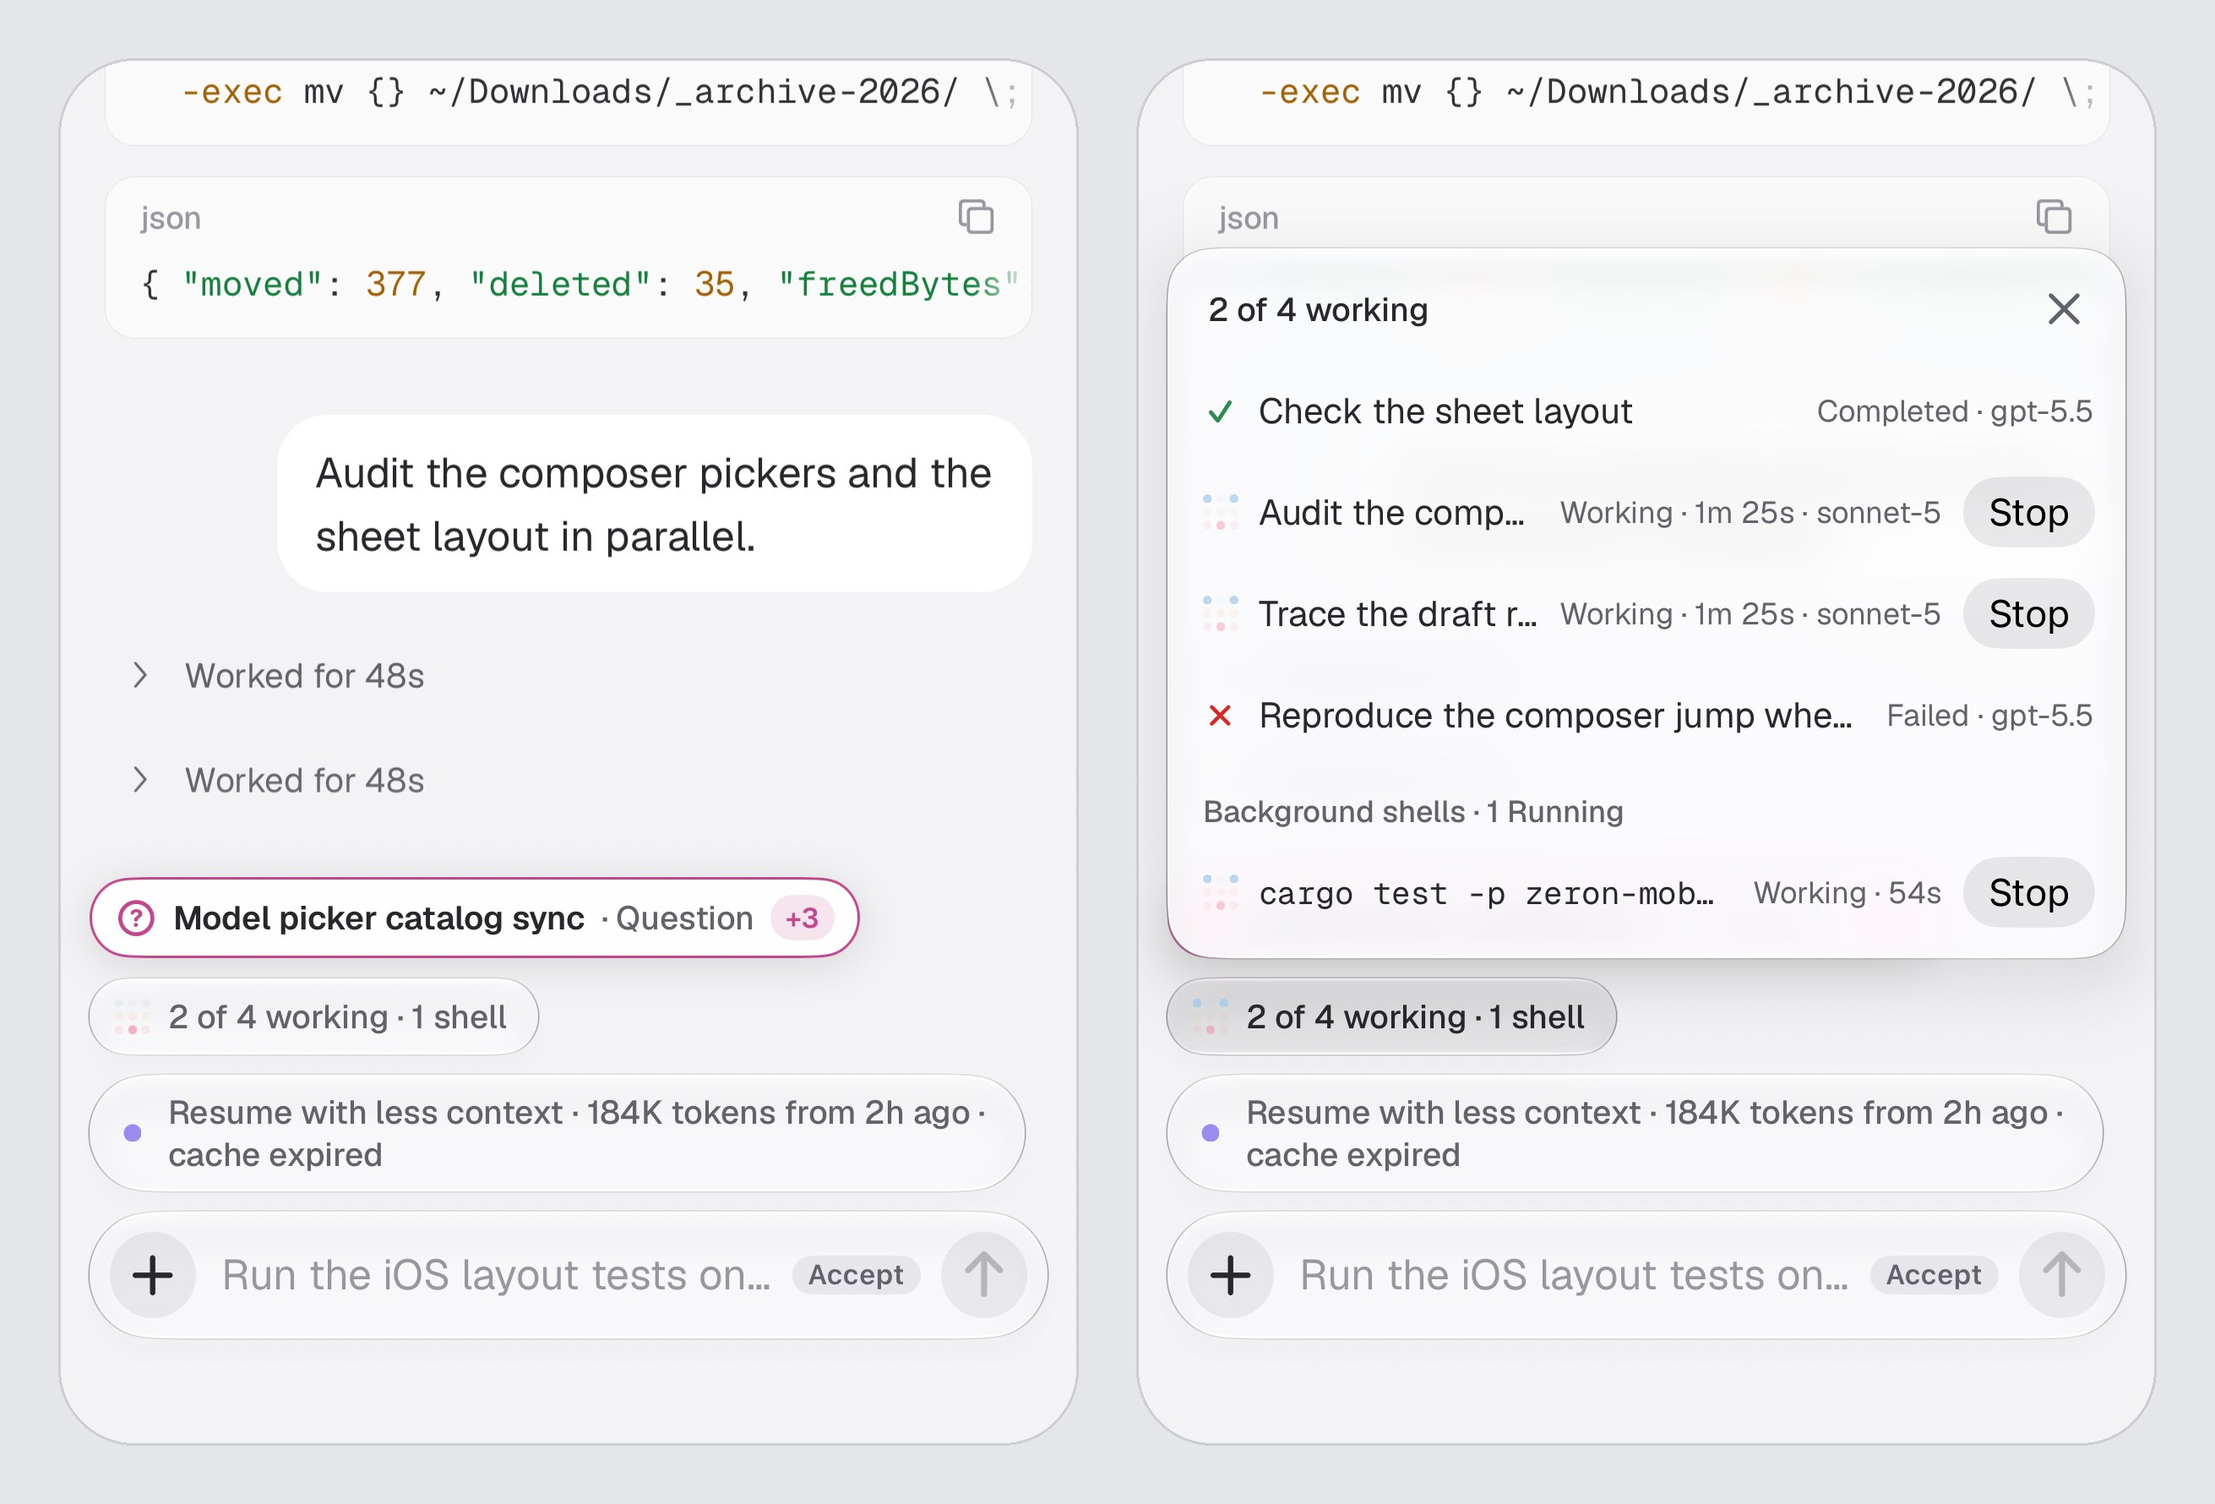
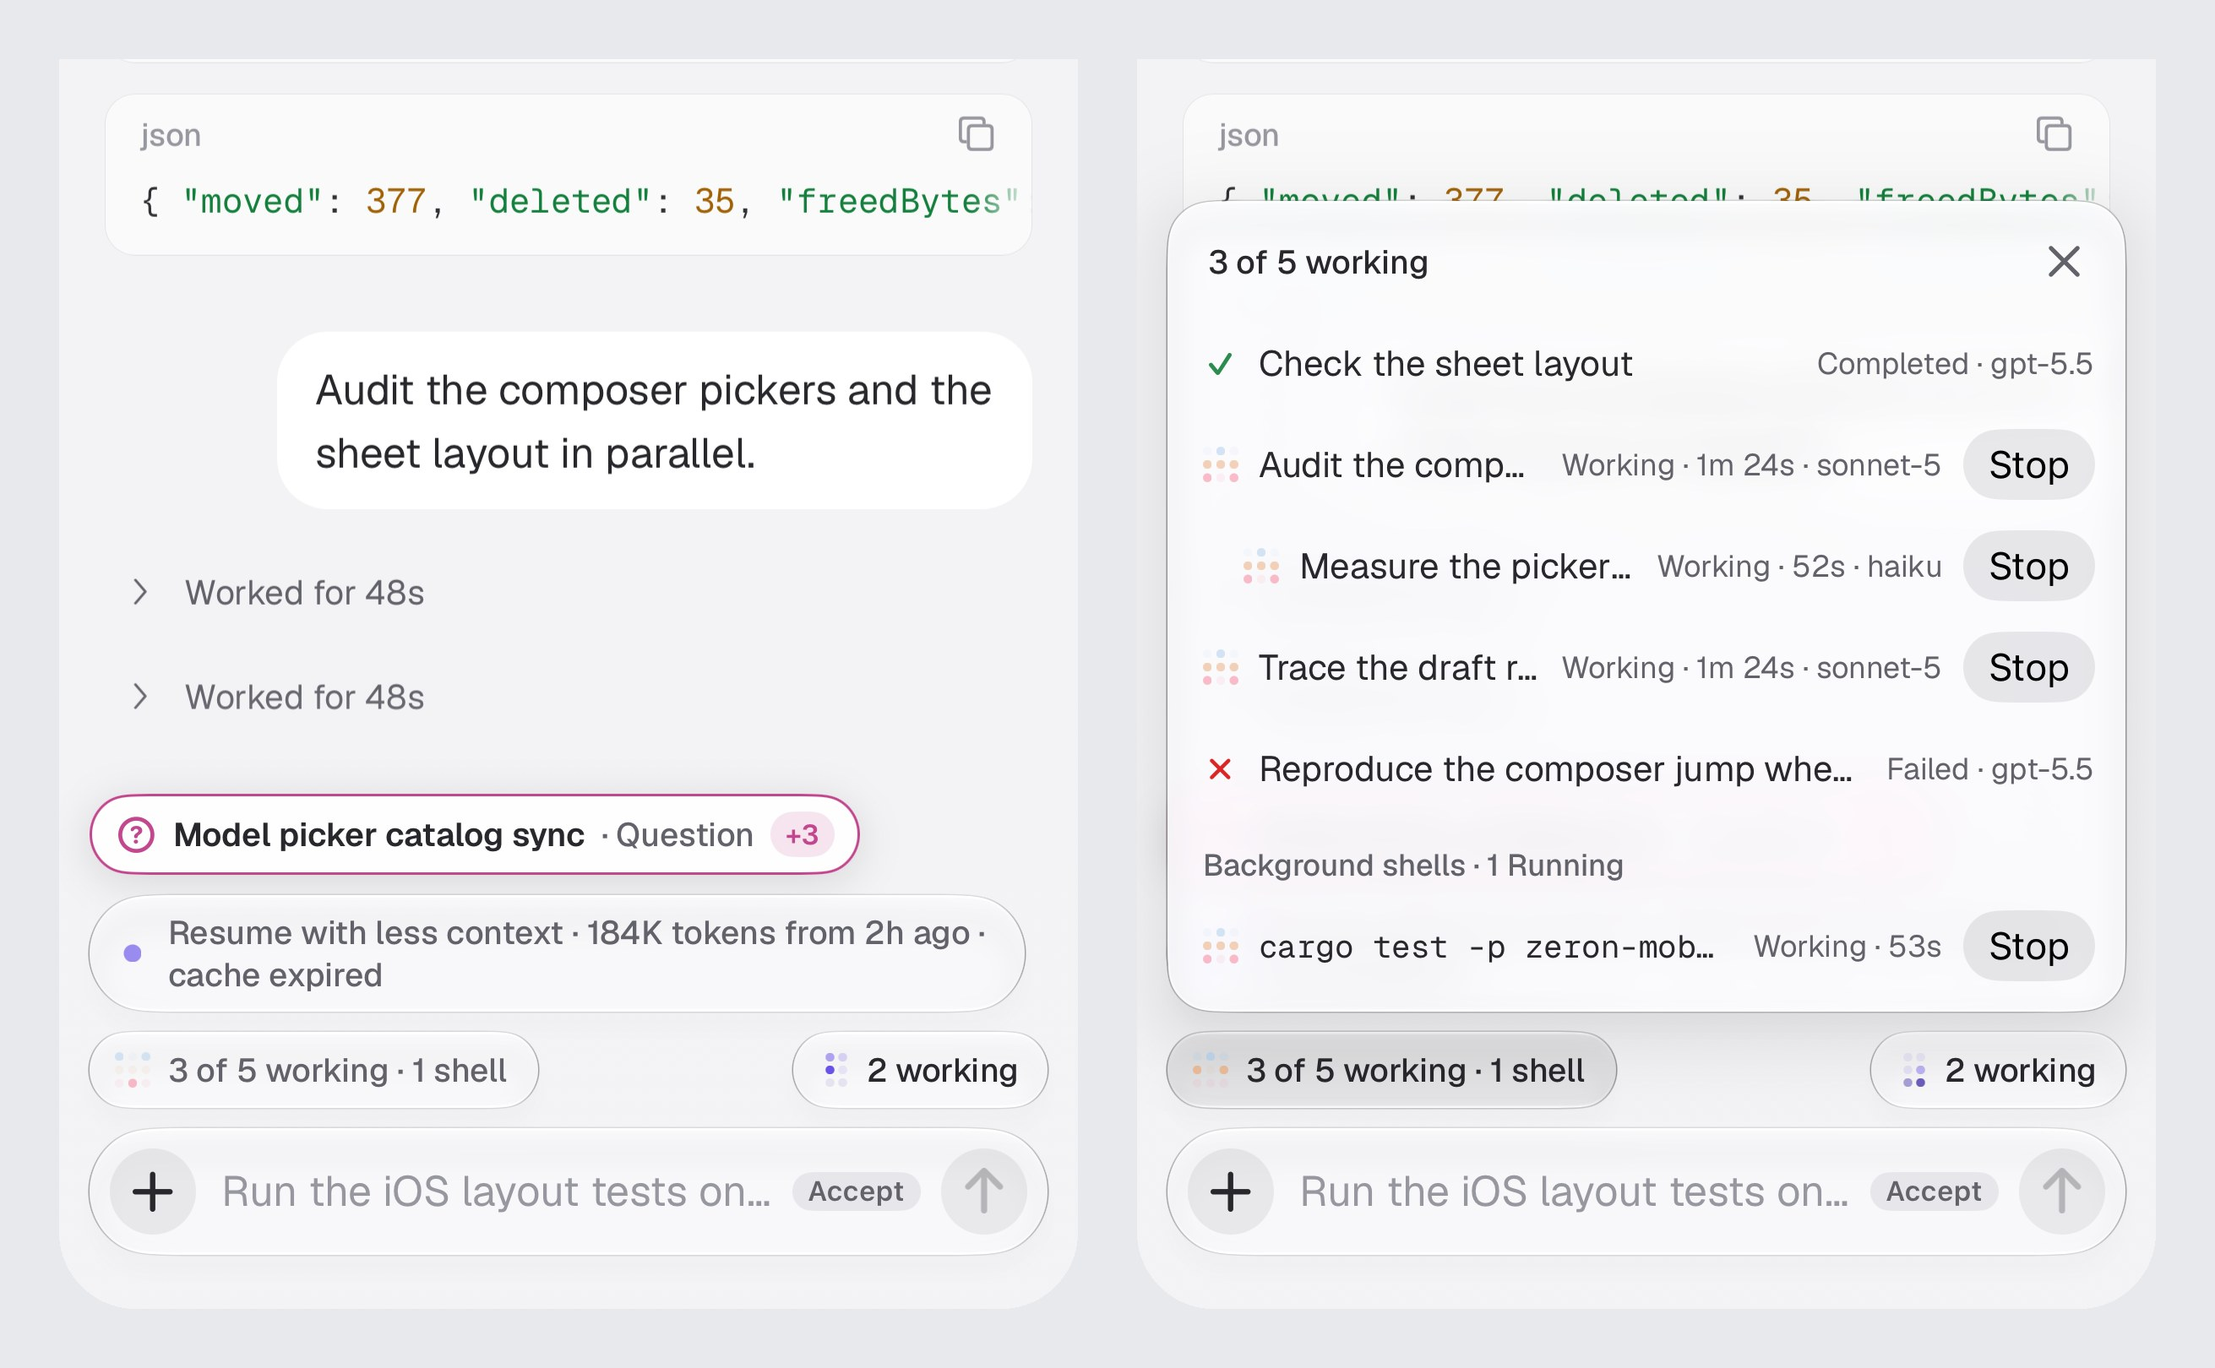
whats new + docs: the 0.2.130 entry (Android parity card with a live phone visual, upstream fx summary, a grouped Improvements and fixes block with a live Settings close visual), fx in Providers, Plan mode and the pill row in the iPhone composer docs, the quick capture project list, and a recaptured

diff --git a/crates/ui/src/shell/intros/release.rs b/crates/ui/src/shell/intros/release.rs
@@ -15,8 +15,10 @@ const TASK_MENTIONS: &str = "task-mentions";
 const GATHER_TASKS: &str = "gather-tasks";
 const TASK_DRAG: &str = "task-drag";
 const SETTINGS_UPDATES: &str = "settings-updates";
+const ANDROID_PARITY: &str = "android-parity";
+const SETTINGS_CLOSE: &str = "settings-close";
 
-pub(super) const VISUALS: [(&str, f32, f32); 13] = [
+pub(super) const VISUALS: [(&str, f32, f32); 15] = [
     (CLAUDE_CONFIG, 7.0, 3.4),
     (COMMAND_CARDS, 6.6, 4.5),
     (COMPACTION_CARD, 7.6, 5.4),
@@ -30,6 +32,8 @@ pub(super) const VISUALS: [(&str, f32, f32); 13] = [
     (GATHER_TASKS, 7.2, 5.0),
     (TASK_DRAG, 6.8, 4.6),
     (SETTINGS_UPDATES, 6.8, 5.6),
+    (ANDROID_PARITY, 6.8, 5.0),
+    (SETTINGS_CLOSE, 4.4, 1.6),
 ];
 
 pub(super) fn visual(id: &str, theme: &Theme, t: f32, reduced: bool) -> AnyElement {
@@ -47,6 +51,8 @@ pub(super) fn visual(id: &str, theme: &Theme, t: f32, reduced: bool) -> AnyEleme
         GATHER_TASKS => gather_tasks_visual(theme, t, reduced),
         TASK_DRAG => task_drag_visual(theme, t),
         SETTINGS_UPDATES => settings_updates_visual(theme, t),
+        ANDROID_PARITY => android_parity_visual(theme, t, reduced),
+        SETTINGS_CLOSE => settings_close_visual(theme, t),
         _ => div().into_any_element(),
     }
 }
@@ -2179,5 +2185,215 @@ fn settings_updates_visual(theme: &Theme, t: f32) -> AnyElement {
         .flex_row()
         .child(nav)
         .child(page)
+        .into_any_element()
+}
+
+fn android_parity_visual(theme: &Theme, t: f32, reduced: bool) -> AnyElement {
+    const TASKS_AT: f32 = 2.6;
+    let tasks = t >= TASKS_AT;
+    let (_, _, ok) = chat_status_tone(zeron_proto::ChatIndicator::Completed, theme);
+    let row = |lead: AnyElement, title: &'static str, line: &'static str, start: f32| {
+        rise(
+            div()
+                .h(px(31.0))
+                .px(px(10.0))
+                .flex()
+                .items_center()
+                .gap(px(7.0))
+                .child(lead)
+                .child(
+                    div()
+                        .flex_1()
+                        .min_w_0()
+                        .child(text(11.0, theme.text, title))
+                        .child(text(9.5, theme.text_muted, line)),
+                ),
+            t,
+            start,
+        )
+    };
+    let group = |label: &'static str, count: &'static str, start: f32| {
+        rise(
+            div()
+                .mt(px(4.0))
+                .px(px(10.0))
+                .flex()
+                .gap(px(4.0))
+                .child(text(9.5, theme.text_faint, label))
+                .child(text(9.5, theme.text_faint, count)),
+            t,
+            start,
+        )
+    };
+    let content = if tasks {
+        div()
+            .flex()
+            .flex_col()
+            .child(group("Needs you", "1", TASKS_AT + 0.1))
+            .child(row(
+                glyph(icons::LUCIDE_CIRCLE_HELP, 12.0, theme.accent).into_any_element(),
+                "Pick the payment provider",
+                "Ship the shop \u{b7} asks a question",
+                TASKS_AT + 0.15,
+            ))
+            .child(group("Working", "2", TASKS_AT + 0.25))
+            .child(row(
+                running(theme, reduced),
+                "Write the cart tests",
+                "Codex \u{b7} 3 subagents",
+                TASKS_AT + 0.3,
+            ))
+    } else {
+        div()
+            .flex()
+            .flex_col()
+            .child(group("MacBook Pro", "", 0.1))
+            .child(row(
+                running(theme, reduced),
+                "Ship the shop",
+                "Working \u{b7} Plan",
+                0.15,
+            ))
+            .child(row(
+                tree_glyph(TreeStatus::Done, 12.0, ok, true),
+                "Cart tests",
+                "Completed",
+                0.25,
+            ))
+            .child(rise(
+                div()
+                    .mt(px(6.0))
+                    .ml(px(10.0))
+                    .flex()
+                    .child(pill("Needs you 1", theme.accent)),
+                t,
+                0.9,
+            ))
+    };
+    let tab = |path: &'static str, label: &'static str, on: bool| {
+        let tone = if on { theme.text } else { theme.text_muted };
+        div()
+            .flex_1()
+            .flex()
+            .flex_col()
+            .items_center()
+            .gap(px(1.0))
+            .child(
+                div()
+                    .h(px(18.0))
+                    .w(px(36.0))
+                    .rounded_full()
+                    .flex()
+                    .items_center()
+                    .justify_center()
+                    .when(on, |el| el.bg(theme.accent.opacity(0.16)))
+                    .child(glyph(path, 12.0, tone)),
+            )
+            .child(text(9.0, tone, label))
+    };
+    let nav = div()
+        .h(px(40.0))
+        .flex()
+        .items_center()
+        .border_t_1()
+        .border_color(theme.border)
+        .child(tab(icons::CHAT_ROUND_LINE, "Sessions", !tasks))
+        .child(tab(icons::CHECKLIST, "Tasks", tasks))
+        .child(tab(icons::SETTINGS, "Settings", false));
+    div()
+        .flex()
+        .items_end()
+        .gap(px(18.0))
+        .child(
+            phone(theme, 230.0, 176.0)
+                .flex()
+                .flex_col()
+                .child(
+                    div().h(px(26.0)).px(px(12.0)).flex().items_end().child(
+                        text(12.5, theme.text, if tasks { "Tasks" } else { "Sessions" })
+                            .font_weight(gpui::FontWeight::SEMIBOLD),
+                    ),
+                )
+                .child(div().flex_1().min_h_0().overflow_hidden().child(content))
+                .child(nav),
+        )
+        .child(
+            div()
+                .w(px(120.0))
+                .pb(px(20.0))
+                .text_size(crate::typography::ui_rems(11.5))
+                .text_color(theme.text_faint)
+                .child("Tasks, Needs you, PRs and the chat tools from iPhone, on Android"),
+        )
+        .into_any_element()
+}
+
+fn settings_close_visual(theme: &Theme, t: f32) -> AnyElement {
+    const OPEN_AT: f32 = 0.5;
+    const CLOSE_AT: f32 = 2.4;
+    let opened = ramp(t, OPEN_AT, 360.0, motion::EASE_OUT);
+    let shown = if t < CLOSE_AT {
+        opened
+    } else {
+        1.0 - ramp(t, CLOSE_AT, 300.0, motion::EASE_IN)
+    };
+    let backdrop = if t < CLOSE_AT {
+        opened
+    } else {
+        1.0 - ramp(t, CLOSE_AT, 340.0, motion::EASE_IN)
+    };
+    let line = |width: f32| {
+        div()
+            .h(px(7.0))
+            .w(px(width))
+            .rounded_full()
+            .bg(theme.wash(0.1))
+    };
+    let page = div()
+        .absolute()
+        .inset_0()
+        .p(px(10.0))
+        .flex()
+        .flex_col()
+        .gap(px(7.0))
+        .child(line(150.0))
+        .child(line(220.0))
+        .child(line(180.0))
+        .child(line(240.0));
+    let panel = card(theme)
+        .w(px(200.0))
+        .h(px(62.0))
+        .p(px(10.0))
+        .flex()
+        .flex_col()
+        .gap(px(6.0))
+        .bg(theme.surface_raised)
+        .relative()
+        .top(px((1.0 - shown) * 8.0))
+        .opacity(shown)
+        .child(text(11.0, theme.text, "Settings").font_weight(gpui::FontWeight::SEMIBOLD))
+        .child(line(150.0))
+        .child(line(110.0));
+    card(theme)
+        .w(px(300.0))
+        .h(px(96.0))
+        .relative()
+        .overflow_hidden()
+        .child(page)
+        .child(
+            div()
+                .absolute()
+                .inset_0()
+                .bg(crate::theme::ink(0.28 * backdrop)),
+        )
+        .child(
+            div()
+                .absolute()
+                .inset_0()
+                .flex()
+                .items_center()
+                .justify_center()
+                .when(shown > 0.0, |el| el.child(panel)),
+        )
         .into_any_element()
 }

diff --git a/crates/ui/docs/mobile-composer.md b/crates/ui/docs/mobile-composer.md
@@ -25,7 +25,7 @@ The chips under the field change this chat's settings.
 - **Start mission** comes first. Turn it on to send the message as a [mission](zeron://docs/mission-control) instead (see below).
 - **Model** reads the agent profile and the model. A dot after the profile name means you changed the profile's settings in this chat. The menu opens on your [agent profiles](zeron://docs/agent-profiles): apply one, **Revert** or **Save** an edited one, or choose **No profile**. Below them come the models of the current provider and of each provider instance; an instance that fails to load shows why, with **Retry**. On the **New session** canvas, each model shows its agent's mark, and a profile applies to the draft once its Mac is online. Switching models on a chat that already has messages asks **Switch model?** first, and the transcript notes the change.
 - **Effort** offers **Low** to **Max**, plus **Fast** where the model has it. See [Models and reasoning effort](zeron://docs/models-and-effort).
-- **Access** sets the chat's access mode: **Supervised**, **Auto-accept edits**, or **Full access**. It offers only the modes the agent supports, and the chip shows the mode the chat runs with.
+- **Access** sets the chat's access mode: **Supervised**, **Auto-accept edits**, or **Full access**. It offers only the modes the agent supports, and the chip shows the mode the chat runs with. For an agent that supports it, the menu also has **Plan mode** ("Explore and propose a plan before changing anything."), and the chip reads, for example, **Full access · Plan** while it is on. The **New session** composer has the same chip, and the session starts with that access and plan.
 - **Context** shows how full the context is, such as "92% context". It opens **Context and stats**.
 
 ![The permission menu, Context and stats, and the Hand off thread menu](ios-composer-menus.jpg)
@@ -57,7 +57,7 @@ The session's **…** menu has:
 - **New sidechat**: a [side chat](zeron://docs/side-chat) that reads this chat without changing it. Sidechats expire after 24 hours. `/btw` and `/sidechat` start one too.
 - **Hand off thread**: continue in this thread with another agent and model, in a new thread, or hand it to a project. See [Hand off a thread](zeron://docs/handoff).
 
-While a chat runs subagents or background shells, a pill above the composer counts them, such as "2 of 3 working · 1 shell". Tap it for a card with each run, its state and how long it has run. **Stop** ends one; tap a row to open its output, its review findings or its chat.
+While a chat runs subagents or background shells, a pill on the row above the composer, beside the side chat and terminal chips, counts them, such as "2 of 3 working · 1 shell". Tap it for a card with each run, its state and how long it has run. **Stop** ends one; tap a row to open its output, its review findings or its chat.
 
 ![The subagents pill, and its roster card](ios-agents-pill.jpg)
 

diff --git a/crates/ui/docs/tasks.md b/crates/ui/docs/tasks.md
@@ -31,7 +31,7 @@ To reorder open tasks, point at a row and drag the grip that appears to its left
 
 File an idea without leaving what you are doing:
 
-- **From any app**: press both Option keys (⌥ + ⌥) on macOS. A bar opens over the app in front, without bringing Zeron forward. Type the idea and press Enter: the task lands at the top of **To do** and the app you were in keeps the keyboard. Shift+Enter starts the notes, **#** and a project name picks the project (the folder chip does too), **Today** sets the due date, and Cmd+V attaches an image. Cmd+Enter saves and opens the task's card in Zeron. Escape or a click outside closes the bar and keeps what you typed for next time.
+- **From any app**: press both Option keys (⌥ + ⌥) on macOS. A bar opens over the app in front, without bringing Zeron forward. Type the idea and press Enter: the task lands at the top of **To do** and the app you were in keeps the keyboard. Shift+Enter starts the notes, **#** and a project name picks the project (the folder chip does too: it opens a list of every project under the chip), **Today** sets the due date, and Cmd+V attaches an image. Cmd+Enter saves and opens the task's card in Zeron. Escape or a click outside closes the bar and keeps what you typed for next time.
 - **Inside Zeron**: click **+** under **Tasks** in the rail. Type and press Enter as many times as you like; the popover lists what you added. Escape, a click outside, or **+** again closes it.
 
 After a save from the bar, **Added to To do** shows with **Undo**, which deletes the task, and **Open**. Captured tasks start in the project you have selected for New chat and carry a **New** tag, and the Tasks icon in the rail counts them, until you next open Tasks.

diff --git a/crates/ui/docs/providers.md b/crates/ui/docs/providers.md
@@ -1,4 +1,4 @@
-Providers are the agents Zeron can run: Claude Code, Codex, Cursor, Devin, Grok, Hermes, Pi, OpenCode, Antigravity, and Muse Code, plus any agent you add from the ACP Registry. Open [Settings > Providers](zeron://settings/providers) to choose which ones the composer offers, sign in, and add extra accounts or setups.
+Providers are the agents Zeron can run: Claude Code, Codex, Cursor, Devin, Grok, Hermes, fx, Pi, OpenCode, Antigravity, and Muse Code, plus any agent you add from the ACP Registry. Open [Settings > Providers](zeron://settings/providers) to choose which ones the composer offers, sign in, and add extra accounts or setups.
 
 ## Turn agents on and off
 
@@ -15,6 +15,8 @@ Click an enabled row to open its details:
 - **Completion**: **Use $ for skills** and **Separate / commands**.
 - **Updates**: **Update policy** is **Notify**, **Auto when idle**, or **Off**.
 - **Accounts**: every login you have for that agent.
+
+fx has no accounts in Zeron: once it is installed, its row says **Configure your model provider with fx login or fx setup.** Run one of those in a terminal to pick the model provider fx uses.
 
 ## Accounts and sign-in
 

diff --git a/crates/ui/docs/mobile.md b/crates/ui/docs/mobile.md
@@ -1,6 +1,6 @@
 The Zeron iPhone app lets you follow and steer your sessions, tasks and missions from your phone. The phone is one more device in your synced workspace: it shows the same sessions, sends your messages and answers, starts new sessions and missions, and changes your Macs' settings, but no agent runs on it. Every session runs on one of your computers or servers, which has to be online to act on what you send.
 
-The app has three tabs, **Sessions**, **Tasks** and **Settings**, plus search. It also runs on iPad, where the session list sits in a sidebar next to the open session.
+The app has three tabs, **Sessions**, **Tasks** and **Settings**, plus search. It also runs on iPad, where the session list sits in a sidebar next to the open session. The Android app has the same tabs and pages; on an Android tablet, Tasks, missions, pull requests and Git open in the main column beside the session list.
 
 ## Sign in
 
